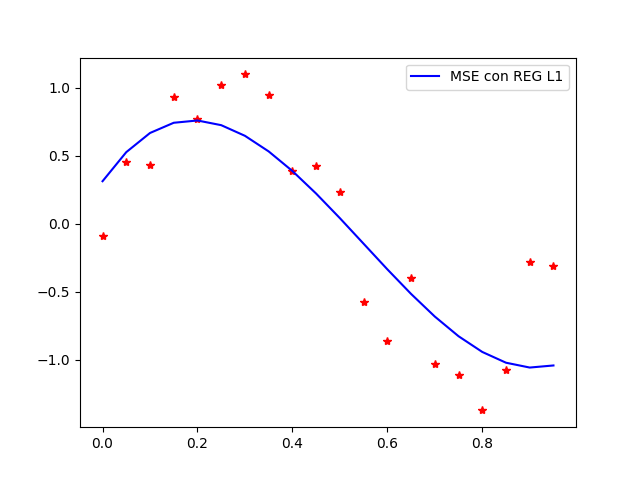
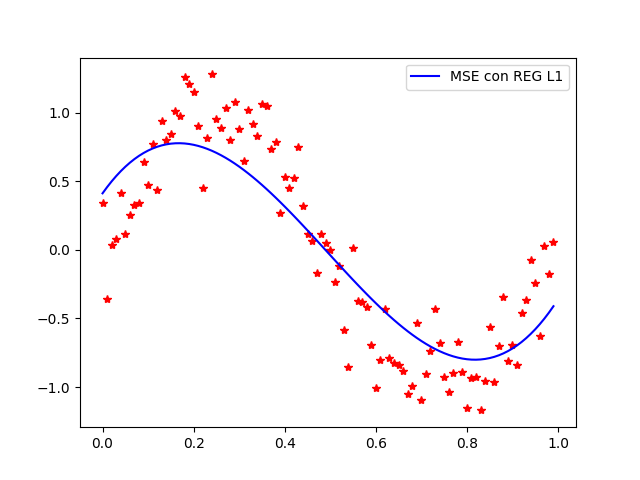
random sample and images

diff --git a/main.py b/main.py
@@ -1,18 +1,21 @@
 from NoLineal import NoLineal
 from MSE import MSE
 from MAE import MAE
-
+import csv
 import numpy as np
 import matplotlib.pyplot as plt
 
 if __name__ == '__main__':
-    #x_temp = np.arange(0, 1, 0.05)
-    #y_temp = [np.sin(2 * i * np.pi) + np.random.normal(0, 0.2) for i in x_temp]
-    x_temp = [0.,   0.05, 0.1,  0.15, 0.2,  0.25, 0.3,  0.35, 0.4,  0.45, 0.5,  0.55, 0.6,  0.65,
-              0.7,  0.75, 0.8,  0.85, 0.9,  0.95]
-    y_temp = [-0.08689237658958435, 0.4548941435012709, 0.4312948104649044, 0.9309011151536833, 0.7717900271877763, 1.018389804588197, 1.0972791099536208, 0.9462734992156075, 0.3911055917305431, 0.4241021343207704, 0.2307095831027754, -0.5737502875585576, -0.8575154310342636, -0.39833869857922777, -1.0319552596206825, -1.10873846045265, -1.370575786122702, -1.0767381754270857, -0.27969167401880746, -0.313537625428634]
+    x_temp = np.arange(0, 1, 0.01)
+    y_temp = [np.sin(2 * i * np.pi) + np.random.normal(0, 0.2) for i in x_temp]
+    #x_temp = [0.,   0.05, 0.1,  0.15, 0.2,  0.25, 0.3,  0.35, 0.4,  0.45, 0.5,  0.55, 0.6,  0.65, 0.7,  0.75, 0.8,  0.85, 0.9,  0.95]
+    #y_temp = [-0.08689237658958435, 0.4548941435012709, 0.4312948104649044, 0.9309011151536833, 0.7717900271877763, 1.018389804588197, 1.0972791099536208, 0.9462734992156075, 0.3911055917305431, 0.4241021343207704, 0.2307095831027754, -0.5737502875585576, -0.8575154310342636, -0.39833869857922777, -1.0319552596206825, -1.10873846045265, -1.370575786122702, -1.0767381754270857, -0.27969167401880746, -0.313537625428634]
+
     x = np.array([x_temp])
     y = np.array([y_temp])
+
+    plt.plot(x[0], y[0], "*", color="red")
+    plt.show()
 
     w = np.array([np.random.rand(4)])
 

diff --git a/NoLineal.py b/NoLineal.py
@@ -33,7 +33,7 @@ class NoLineal:
             g_l2 = np.array([self.error.gradienteREG_L2(self.model, self.x, self.y, self.w_L2, self.lamb)])
             self.w_L2 = self.w_L2 - self.alpha * g_l2
 
-            if epoch % 100 == 0:
+            if epoch % 1000 == 0:
                 print("epoch:", epoch, "\t", self.norma + "_REG_L1:", round(self.error.errorREG_L1(self.model, self.x,
                                                                                                    self.y, self.w_L1,
                                                                                                    self.lamb), 5), "\t",
